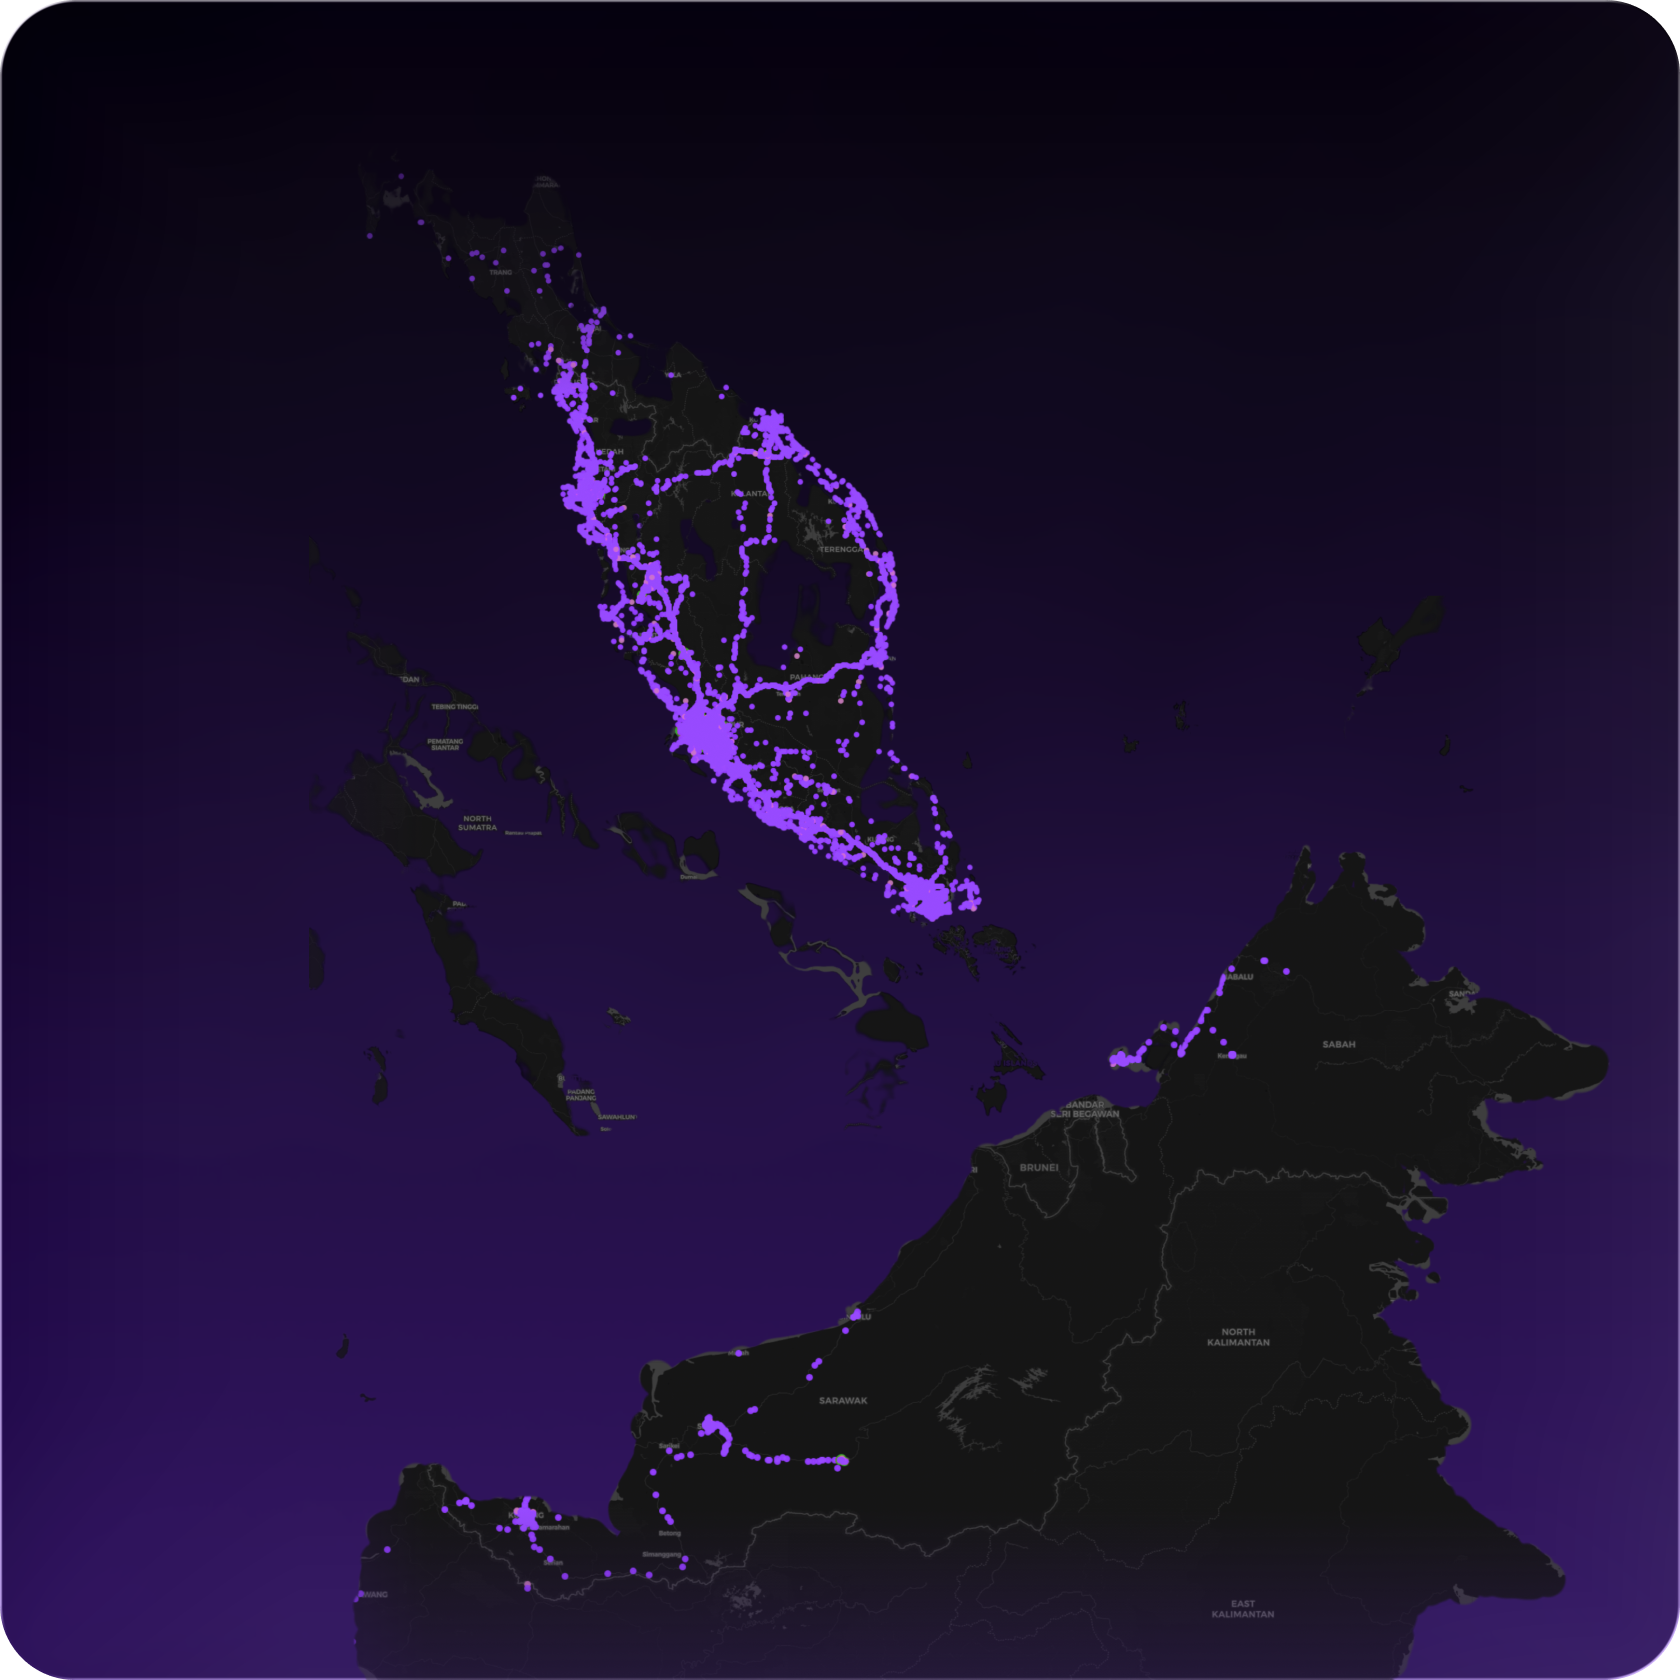
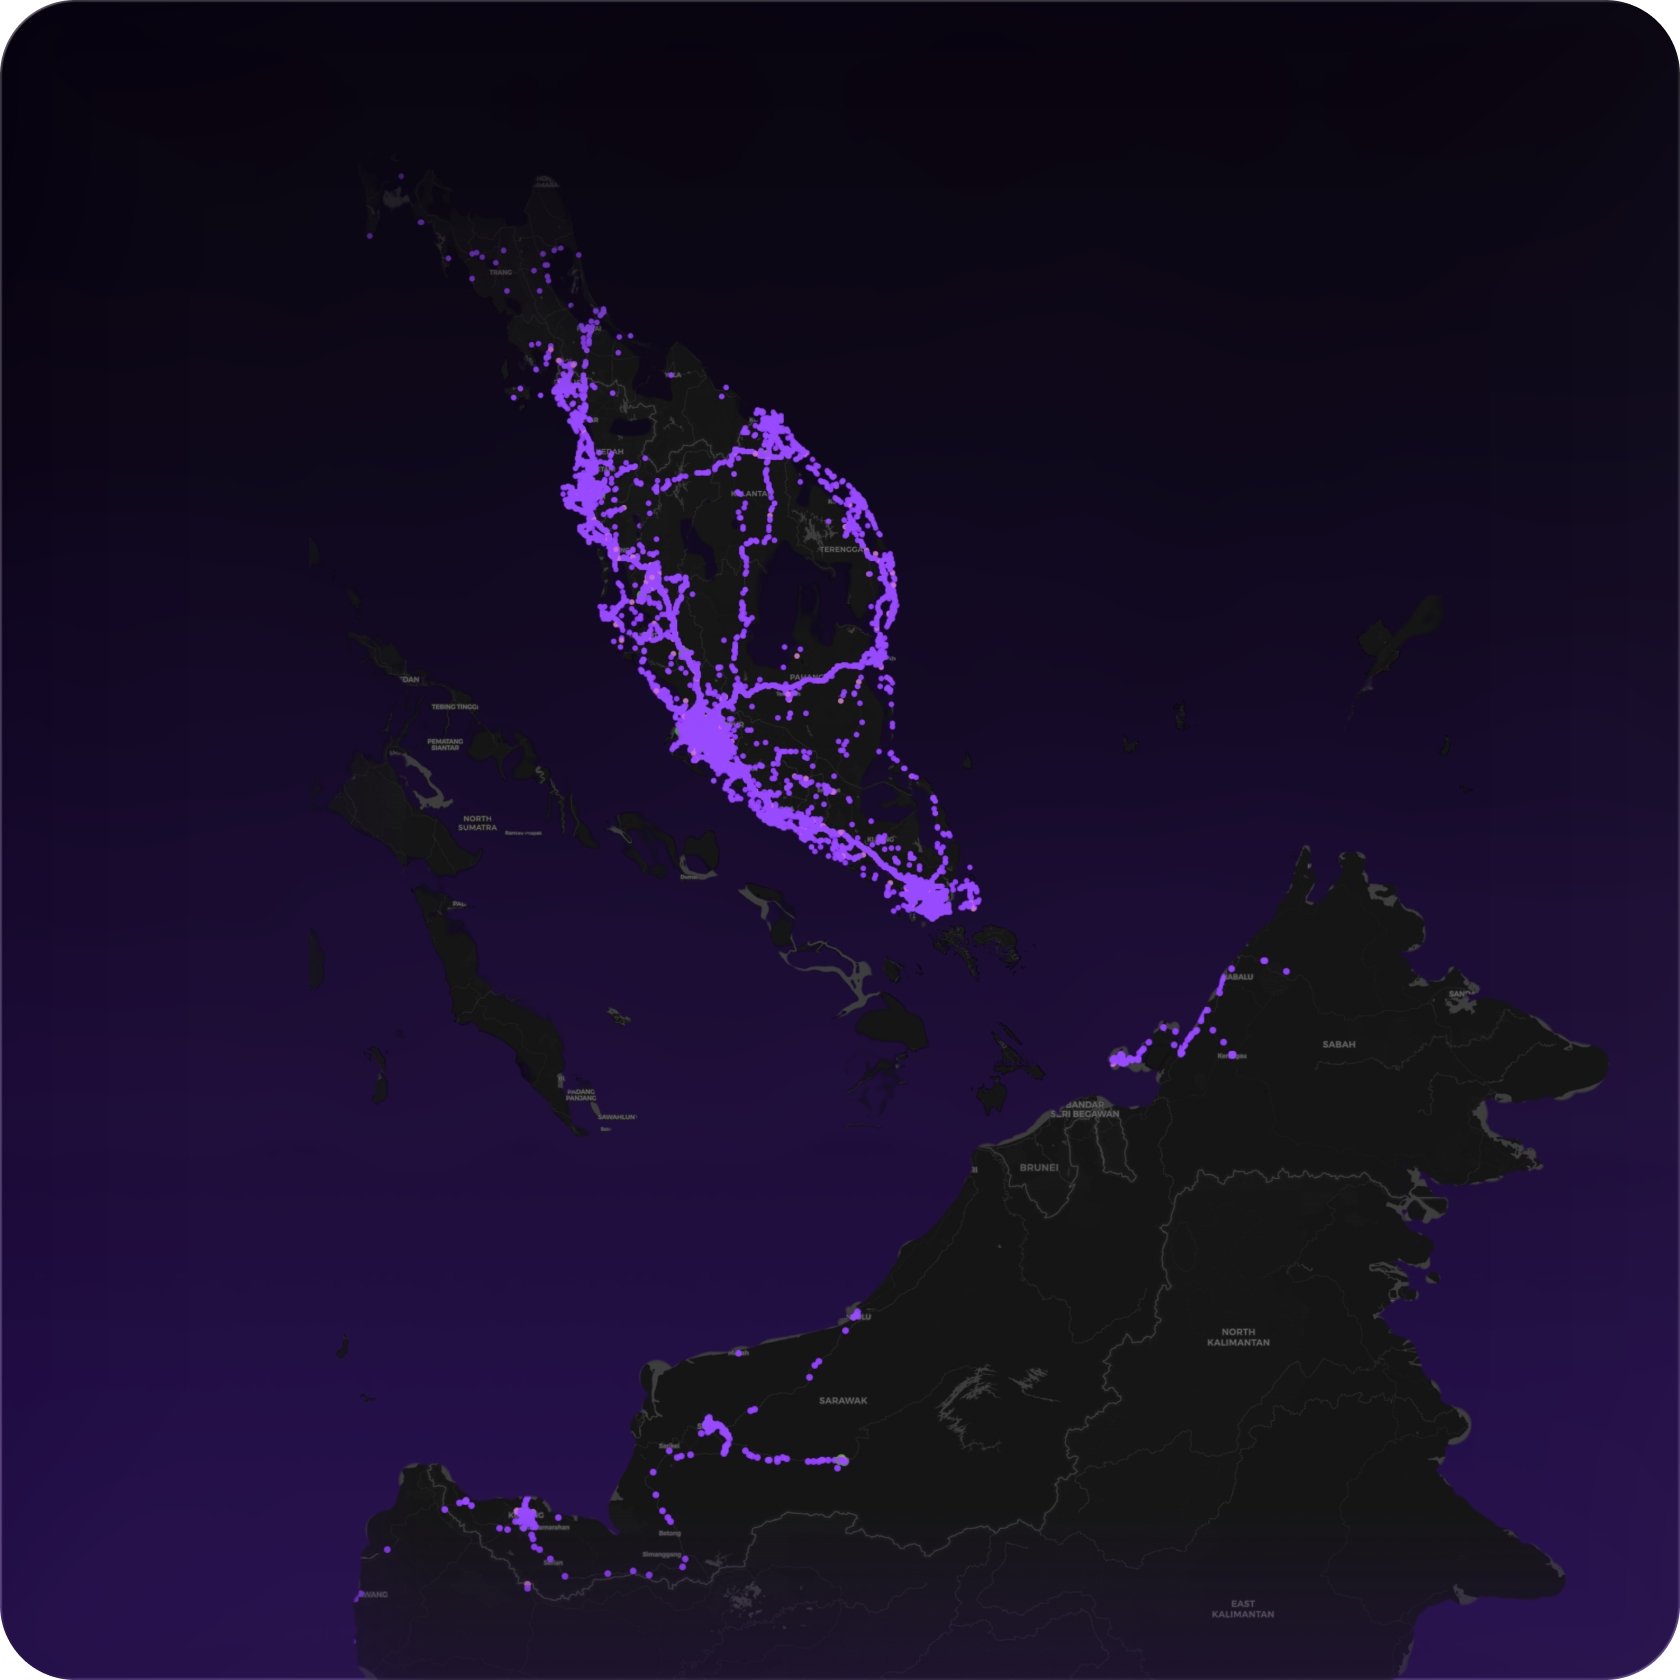
feat: add Join Kommunity CTA and sync glass button styles
Email 1 now links to the Facebook group; all drip buttons match the
updated shell gradient.

Changed region(s): [[0.031, 0.9905, 0.9905, 1.0], [0.9905, 0.0619, 1.0, 0.9905]]

diff --git a/tools/newsletter-runner/templates/hardware_specs.html b/tools/newsletter-runner/templates/hardware_specs.html
@@ -19,7 +19,7 @@
 <p style="margin: 0 0 28px;">Professional installation is recommended — our <a href="https://kommu.ai/installers" style="color: #6b9fff; text-decoration: none;">authorized installer map</a> covers locations across Malaysia.</p>
 <table role="presentation" cellpadding="0" cellspacing="0" border="0">
   <tr>
-    <td class="email-glass-btn" align="center" bgcolor="#1a1528" style="opacity: 1; border-radius: 999px; border: 0.5px solid transparent; background-color: #1a1528; background-image: linear-gradient(150deg, rgba(61, 26, 120, 0.15) 0%, rgba(255, 255, 255, 0.01) 48%, rgba(61, 26, 120, 0.35) 100%), linear-gradient(rgba(12, 8, 18, 0.8), rgba(12, 8, 18, 0.9)), linear-gradient(30deg, rgba(255, 255, 255, 0.1) 0%, rgba(255, 255, 255, 0.0) 48%, rgba(255, 255, 255, 0.1) 100%); background-origin: padding-box, padding-box, border-box; background-clip: padding-box, padding-box, border-box;">
+    <td class="email-glass-btn" align="center" bgcolor="#1a1528" style="opacity: 1; border-radius: 999px; border: 0.5px solid transparent; background-color: #1a1528; background-image: linear-gradient(150deg, rgba(61, 26, 120, 0.20) 0%, rgba(255, 255, 255, 0.01) 48%, rgba(61, 26, 120, 0.45) 100%), linear-gradient(rgba(12, 8, 18, 0.7), rgba(12, 8, 18, 0.8)), linear-gradient(30deg, rgba(255, 255, 255, 0.3) 0%, rgba(255, 255, 255, 0.0) 48%, rgba(255, 255, 255, 0.3) 100%); background-origin: padding-box, padding-box, border-box; background-clip: padding-box, padding-box, border-box;">
       <a href="https://kommu.ai/product" style="display: inline-block; padding: 14px 28px; font-family: 'Glacial Indifference', -apple-system, BlinkMacSystemFont, 'Segoe UI', Roboto, Helvetica, Arial, sans-serif; font-size: 15px; font-weight: 600; color: rgb(241, 241, 241); text-decoration: none; border-radius: 999px; text-shadow: 0 1px 0 rgba(0, 0, 0, 0.35);">Configure your kit →</a>
     </td>
   </tr>

diff --git a/tools/newsletter-runner/templates/product_background.html b/tools/newsletter-runner/templates/product_background.html
@@ -11,7 +11,7 @@
 <p style="margin: 0 0 28px;">We're not a faceless import brand — we're building alongside the drivers who use it every day.</p>
 <table role="presentation" cellpadding="0" cellspacing="0" border="0">
   <tr>
-    <td class="email-glass-btn" align="center" bgcolor="#1a1528" style="opacity: 1; border-radius: 999px; border: 0.5px solid transparent; background-color: #1a1528; background-image: linear-gradient(150deg, rgba(61, 26, 120, 0.15) 0%, rgba(255, 255, 255, 0.01) 48%, rgba(61, 26, 120, 0.35) 100%), linear-gradient(rgba(12, 8, 18, 0.8), rgba(12, 8, 18, 0.9)), linear-gradient(30deg, rgba(255, 255, 255, 0.1) 0%, rgba(255, 255, 255, 0.0) 48%, rgba(255, 255, 255, 0.1) 100%); background-origin: padding-box, padding-box, border-box; background-clip: padding-box, padding-box, border-box;">
+    <td class="email-glass-btn" align="center" bgcolor="#1a1528" style="opacity: 1; border-radius: 999px; border: 0.5px solid transparent; background-color: #1a1528; background-image: linear-gradient(150deg, rgba(61, 26, 120, 0.20) 0%, rgba(255, 255, 255, 0.01) 48%, rgba(61, 26, 120, 0.45) 100%), linear-gradient(rgba(12, 8, 18, 0.7), rgba(12, 8, 18, 0.8)), linear-gradient(30deg, rgba(255, 255, 255, 0.3) 0%, rgba(255, 255, 255, 0.0) 48%, rgba(255, 255, 255, 0.3) 100%); background-origin: padding-box, padding-box, border-box; background-clip: padding-box, padding-box, border-box;">
       <a href="https://kommu.ai/installers" style="display: inline-block; padding: 14px 28px; font-family: 'Glacial Indifference', -apple-system, BlinkMacSystemFont, 'Segoe UI', Roboto, Helvetica, Arial, sans-serif; font-size: 15px; font-weight: 600; color: rgb(241, 241, 241); text-decoration: none; border-radius: 999px; text-shadow: 0 1px 0 rgba(0, 0, 0, 0.35);">Find an installer →</a>
     </td>
   </tr>

diff --git a/tools/newsletter-runner/templates/product_features.html b/tools/newsletter-runner/templates/product_features.html
@@ -12,7 +12,7 @@
 <p style="margin: 0 0 28px;">Everything processes on-device in your car. No cloud dependency while you're driving.</p>
 <table role="presentation" cellpadding="0" cellspacing="0" border="0">
   <tr>
-    <td class="email-glass-btn" align="center" bgcolor="#1a1528" style="opacity: 1; border-radius: 999px; border: 0.5px solid transparent; background-color: #1a1528; background-image: linear-gradient(150deg, rgba(61, 26, 120, 0.15) 0%, rgba(255, 255, 255, 0.01) 48%, rgba(61, 26, 120, 0.35) 100%), linear-gradient(rgba(12, 8, 18, 0.8), rgba(12, 8, 18, 0.9)), linear-gradient(30deg, rgba(255, 255, 255, 0.1) 0%, rgba(255, 255, 255, 0.0) 48%, rgba(255, 255, 255, 0.1) 100%); background-origin: padding-box, padding-box, border-box; background-clip: padding-box, padding-box, border-box;">
+    <td class="email-glass-btn" align="center" bgcolor="#1a1528" style="opacity: 1; border-radius: 999px; border: 0.5px solid transparent; background-color: #1a1528; background-image: linear-gradient(150deg, rgba(61, 26, 120, 0.20) 0%, rgba(255, 255, 255, 0.01) 48%, rgba(61, 26, 120, 0.45) 100%), linear-gradient(rgba(12, 8, 18, 0.7), rgba(12, 8, 18, 0.8)), linear-gradient(30deg, rgba(255, 255, 255, 0.3) 0%, rgba(255, 255, 255, 0.0) 48%, rgba(255, 255, 255, 0.3) 100%); background-origin: padding-box, padding-box, border-box; background-clip: padding-box, padding-box, border-box;">
       <a href="https://kommu.ai/ka2" style="display: inline-block; padding: 14px 28px; font-family: 'Glacial Indifference', -apple-system, BlinkMacSystemFont, 'Segoe UI', Roboto, Helvetica, Arial, sans-serif; font-size: 15px; font-weight: 600; color: rgb(241, 241, 241); text-decoration: none; border-radius: 999px; text-shadow: 0 1px 0 rgba(0, 0, 0, 0.35);">Explore KommuAssist 2 →</a>
     </td>
   </tr>

diff --git a/tools/newsletter-runner/templates/use_cases.html b/tools/newsletter-runner/templates/use_cases.html
@@ -11,7 +11,7 @@
 <p style="margin: 0 0 28px;">Want to see if your car is supported? Check our live compatibility list.</p>
 <table role="presentation" cellpadding="0" cellspacing="0" border="0">
   <tr>
-    <td class="email-glass-btn" align="center" bgcolor="#1a1528" style="opacity: 1; border-radius: 999px; border: 0.5px solid transparent; background-color: #1a1528; background-image: linear-gradient(150deg, rgba(61, 26, 120, 0.15) 0%, rgba(255, 255, 255, 0.01) 48%, rgba(61, 26, 120, 0.35) 100%), linear-gradient(rgba(12, 8, 18, 0.8), rgba(12, 8, 18, 0.9)), linear-gradient(30deg, rgba(255, 255, 255, 0.1) 0%, rgba(255, 255, 255, 0.0) 48%, rgba(255, 255, 255, 0.1) 100%); background-origin: padding-box, padding-box, border-box; background-clip: padding-box, padding-box, border-box;">
+    <td class="email-glass-btn" align="center" bgcolor="#1a1528" style="opacity: 1; border-radius: 999px; border: 0.5px solid transparent; background-color: #1a1528; background-image: linear-gradient(150deg, rgba(61, 26, 120, 0.20) 0%, rgba(255, 255, 255, 0.01) 48%, rgba(61, 26, 120, 0.45) 100%), linear-gradient(rgba(12, 8, 18, 0.7), rgba(12, 8, 18, 0.8)), linear-gradient(30deg, rgba(255, 255, 255, 0.3) 0%, rgba(255, 255, 255, 0.0) 48%, rgba(255, 255, 255, 0.3) 100%); background-origin: padding-box, padding-box, border-box; background-clip: padding-box, padding-box, border-box;">
       <a href="https://kommu.ai/support" style="display: inline-block; padding: 14px 28px; font-family: 'Glacial Indifference', -apple-system, BlinkMacSystemFont, 'Segoe UI', Roboto, Helvetica, Arial, sans-serif; font-size: 15px; font-weight: 600; color: rgb(241, 241, 241); text-decoration: none; border-radius: 999px; text-shadow: 0 1px 0 rgba(0, 0, 0, 0.35);">Check supported models →</a>
     </td>
   </tr>

diff --git a/tools/newsletter-runner/templates/technical_info.html b/tools/newsletter-runner/templates/technical_info.html
@@ -13,7 +13,7 @@
 <p style="margin: 0 0 20px;">Ready to take the next step?</p>
 <table role="presentation" cellpadding="0" cellspacing="0" border="0" style="margin-bottom: 12px;">
   <tr>
-    <td class="email-glass-btn" align="center" bgcolor="#1a1528" style="opacity: 1; border-radius: 999px; border: 0.5px solid transparent; background-color: #1a1528; background-image: linear-gradient(150deg, rgba(61, 26, 120, 0.15) 0%, rgba(255, 255, 255, 0.01) 48%, rgba(61, 26, 120, 0.35) 100%), linear-gradient(rgba(12, 8, 18, 0.8), rgba(12, 8, 18, 0.9)), linear-gradient(30deg, rgba(255, 255, 255, 0.1) 0%, rgba(255, 255, 255, 0.0) 48%, rgba(255, 255, 255, 0.1) 100%); background-origin: padding-box, padding-box, border-box; background-clip: padding-box, padding-box, border-box;">
+    <td class="email-glass-btn" align="center" bgcolor="#1a1528" style="opacity: 1; border-radius: 999px; border: 0.5px solid transparent; background-color: #1a1528; background-image: linear-gradient(150deg, rgba(61, 26, 120, 0.20) 0%, rgba(255, 255, 255, 0.01) 48%, rgba(61, 26, 120, 0.45) 100%), linear-gradient(rgba(12, 8, 18, 0.7), rgba(12, 8, 18, 0.8)), linear-gradient(30deg, rgba(255, 255, 255, 0.3) 0%, rgba(255, 255, 255, 0.0) 48%, rgba(255, 255, 255, 0.3) 100%); background-origin: padding-box, padding-box, border-box; background-clip: padding-box, padding-box, border-box;">
       <a href="https://kommu.ai/product" style="display: inline-block; padding: 14px 28px; font-family: 'Glacial Indifference', -apple-system, BlinkMacSystemFont, 'Segoe UI', Roboto, Helvetica, Arial, sans-serif; font-size: 15px; font-weight: 600; color: rgb(241, 241, 241); text-decoration: none; border-radius: 999px; text-shadow: 0 1px 0 rgba(0, 0, 0, 0.35);">Buy KommuAssist 2 →</a>
     </td>
   </tr>

diff --git a/tools/newsletter-runner/templates/branding.html b/tools/newsletter-runner/templates/branding.html
@@ -11,4 +11,11 @@
     </td>
   </tr>
 </table>
-<p style="margin: 0; color: #b2b2b2;">Whether you're curious, already driving with us, or just watching from the sidelines — we're glad you're here.</p>
+<p style="margin: 0 0 28px; color: #b2b2b2;">Whether you're curious, already driving with us, or just watching from the sidelines — we're glad you're here.</p>
+<table role="presentation" cellpadding="0" cellspacing="0" border="0">
+  <tr>
+    <td class="email-glass-btn" align="center" bgcolor="#1a1528" style="opacity: 1; border-radius: 999px; border: 0.5px solid transparent; background-color: #1a1528; background-image: linear-gradient(150deg, rgba(61, 26, 120, 0.20) 0%, rgba(255, 255, 255, 0.01) 48%, rgba(61, 26, 120, 0.45) 100%), linear-gradient(rgba(12, 8, 18, 0.7), rgba(12, 8, 18, 0.8)), linear-gradient(30deg, rgba(255, 255, 255, 0.3) 0%, rgba(255, 255, 255, 0.0) 48%, rgba(255, 255, 255, 0.3) 100%); background-origin: padding-box, padding-box, border-box; background-clip: padding-box, padding-box, border-box;">
+      <a href="https://www.facebook.com/groups/kommu.official" style="display: inline-block; padding: 14px 28px; font-family: 'Glacial Indifference', -apple-system, BlinkMacSystemFont, 'Segoe UI', Roboto, Helvetica, Arial, sans-serif; font-size: 15px; font-weight: 600; color: rgb(241, 241, 241); text-decoration: none; border-radius: 999px; text-shadow: 0 1px 0 rgba(0, 0, 0, 0.35);">Join Kommunity</a>
+    </td>
+  </tr>
+</table>

diff --git a/tools/newsletter-runner/templates/_email_shell.html b/tools/newsletter-runner/templates/_email_shell.html
@@ -35,7 +35,7 @@
       opacity: 1 !important;
       background-color: #1a1528 !important;
       border: 0.5px solid transparent !important;
-      background-image: linear-gradient(150deg, rgba(61, 26, 120, 0.15) 0%, rgba(255, 255, 255, 0.01) 48%, rgba(61, 26, 120, 0.35) 100%), linear-gradient(rgba(12, 8, 18, 0.8), rgba(12, 8, 18, 0.9)), linear-gradient(30deg, rgba(255, 255, 255, 0.1) 0%, rgba(255, 255, 255, 0.0) 48%, rgba(255, 255, 255, 0.1) 100%) !important;
+      background-image: linear-gradient(150deg, rgba(61, 26, 120, 0.20) 0%, rgba(255, 255, 255, 0.01) 48%, rgba(61, 26, 120, 0.45) 100%), linear-gradient(rgba(12, 8, 18, 0.7), rgba(12, 8, 18, 0.8)), linear-gradient(30deg, rgba(255, 255, 255, 0.3) 0%, rgba(255, 255, 255, 0.0) 48%, rgba(255, 255, 255, 0.3) 100%) !important;
       background-origin: padding-box, padding-box, border-box !important;
       background-clip: padding-box, padding-box, border-box !important;
     }
